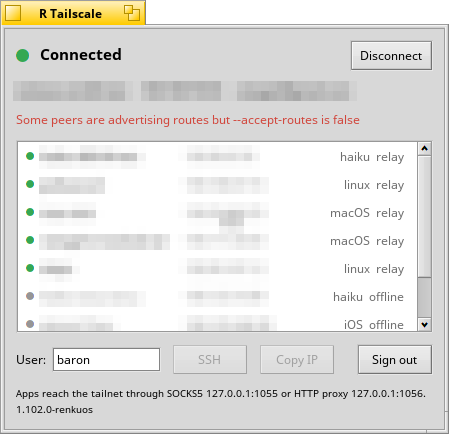
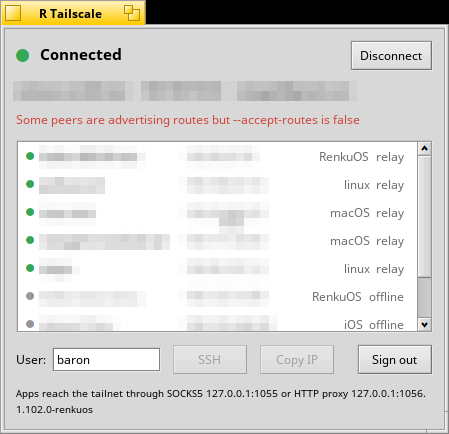
R Tailscale: show haiku peers as RenkuOS

Changed region(s): [[0.3118, 0.0, 1.0, 0.0599], [0.7171, 0.3295, 0.8107, 0.3894], [0.686, 0.659, 0.8107, 0.6889]]

diff --git a/gui/src/LocalApi.cpp b/gui/src/LocalApi.cpp
@@ -191,6 +191,8 @@ FetchStatus()
 		if (!ips.items.empty())
 			peer.ip = ips.items[0].Str();
 		peer.os = node["OS"].Str();
+		if (peer.os == "haiku")
+			peer.os = "RenkuOS";
 		peer.online = node["Online"].IsTrue();
 		peer.direct = !node["CurAddr"].Str().empty();
 		status.peers.push_back(peer);
